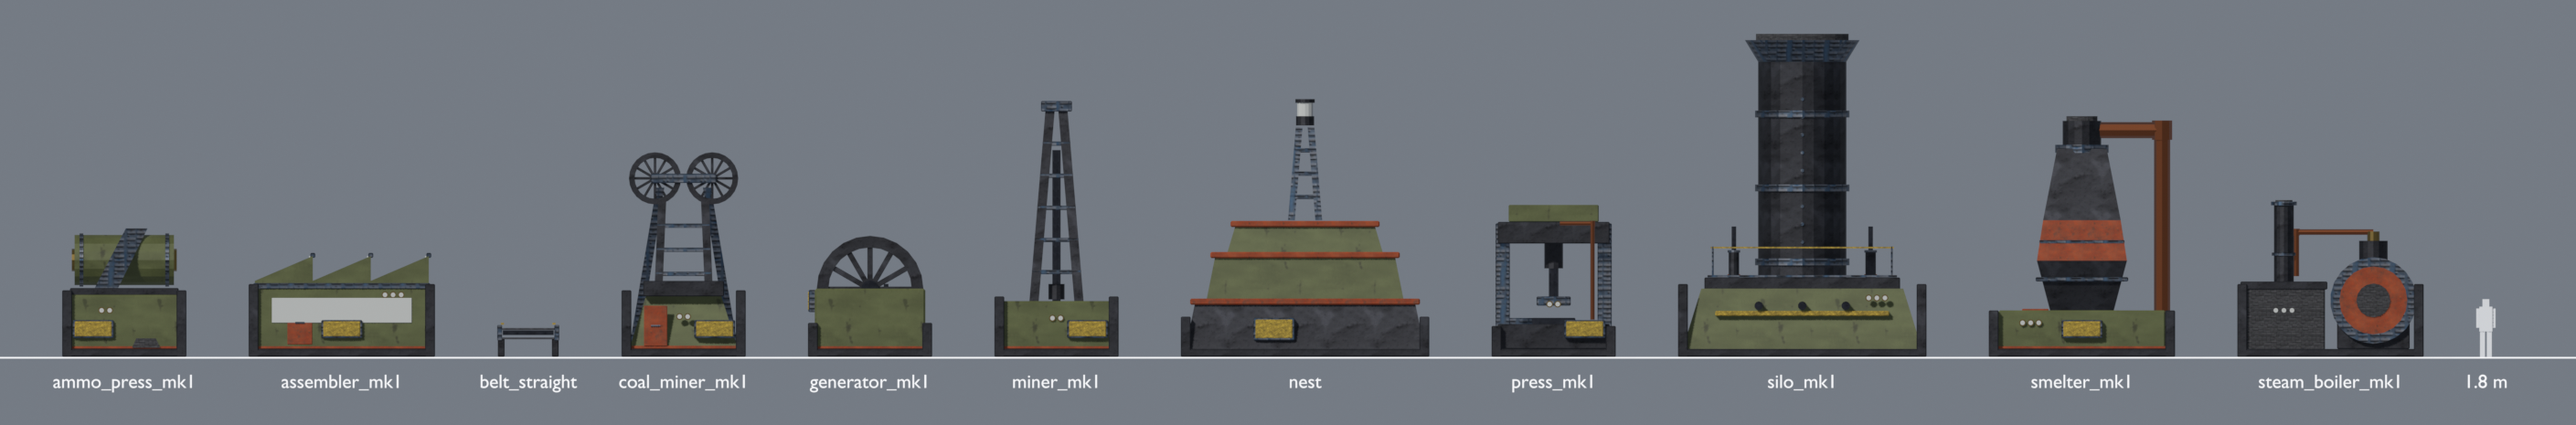
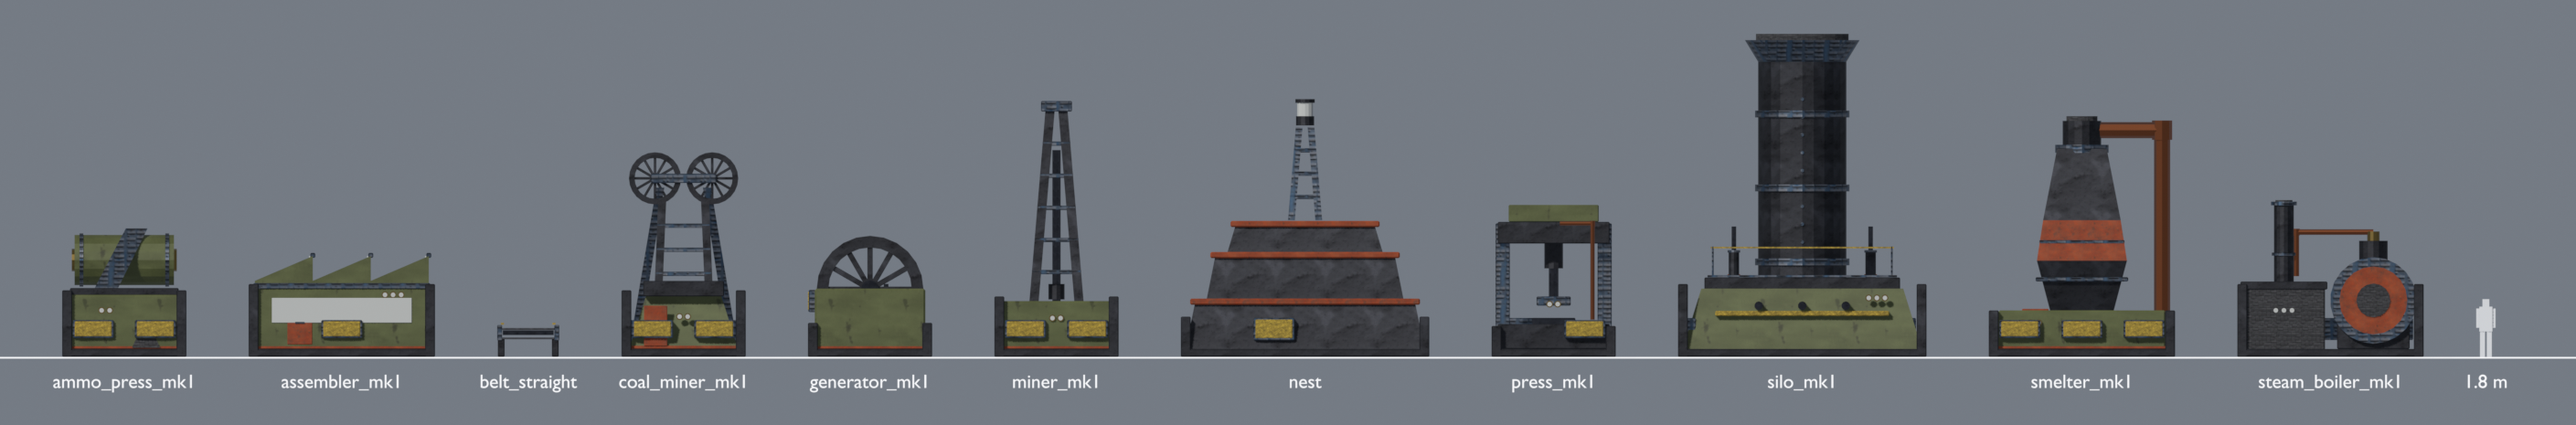
#80: rebuild the contact sheets, which carry the Nest too
`render_machines.sh` globs every `.glb`, so the Nest is on all three committed
sheets. `machines_lit.png` carries the change; the two silhouette sheets moved
only in the caption band — measured, the changed bounding box is the label row —
which is text rasterisation rather than geometry, and they are committed rather
than reverted because a committed image the tool cannot reproduce is #53's own
defect.

And the sheet answers why four tickets of contact sheets never caught this: under
Blender's own lighting the olive Nest did not look wrong. The palette was tuned in
those renders and the game's lighting is a second tuning that is explicitly not
interchangeable, so a sheet is the instrument for silhouette and surface and only
a game render is the instrument for value.

diff --git a/CLAUDE.md b/CLAUDE.md
@@ -1577,6 +1577,24 @@ necessary and was never going to be sufficient. Two more, earned here:
   is a structure nobody has checked** — and a brightness complaint is a *vantage-specific*
   measurement, so both vantages have to be read before deciding how much to take away.
 
+#### The contact sheet moved, and it is the one committed image this touched
+
+`tools/assets/render_machines.sh` globs every `.glb` in `assets/machines/`, so the Nest is on
+the committed sheets and all three were rebuilt:
+[`machines_lit.png`](docs/images/machines_lit.png) carries the change, and the two silhouette
+sheets moved by a few hundred pixels **in the caption band only** — measured, the changed
+bounding box is the label row — which is text rasterisation and not geometry. They are
+committed anyway rather than reverted, because #53 is what a committed image the tool can no
+longer reproduce costs.
+
+Worth knowing from that sheet: **under Blender's own lighting the olive Nest never looked
+wrong**, which is why four tickets of contact sheets did not catch this. The palette was tuned
+in those renders and `_sync_scenery`'s numbers are a second tuning that is explicitly not
+interchangeable with them — so a sheet is the instrument for *silhouette and surface*, and only
+a game render is the instrument for *value*. The sheet also says something the fix did not set
+out to buy: the Nest is now the one iron building in a row of olive Machines, so it is
+distinguished by material as well as by its steps.
+
 #### What no render here can settle
 
 Whether a Nest that no longer glows is still the first thing a player's eye goes to when they
